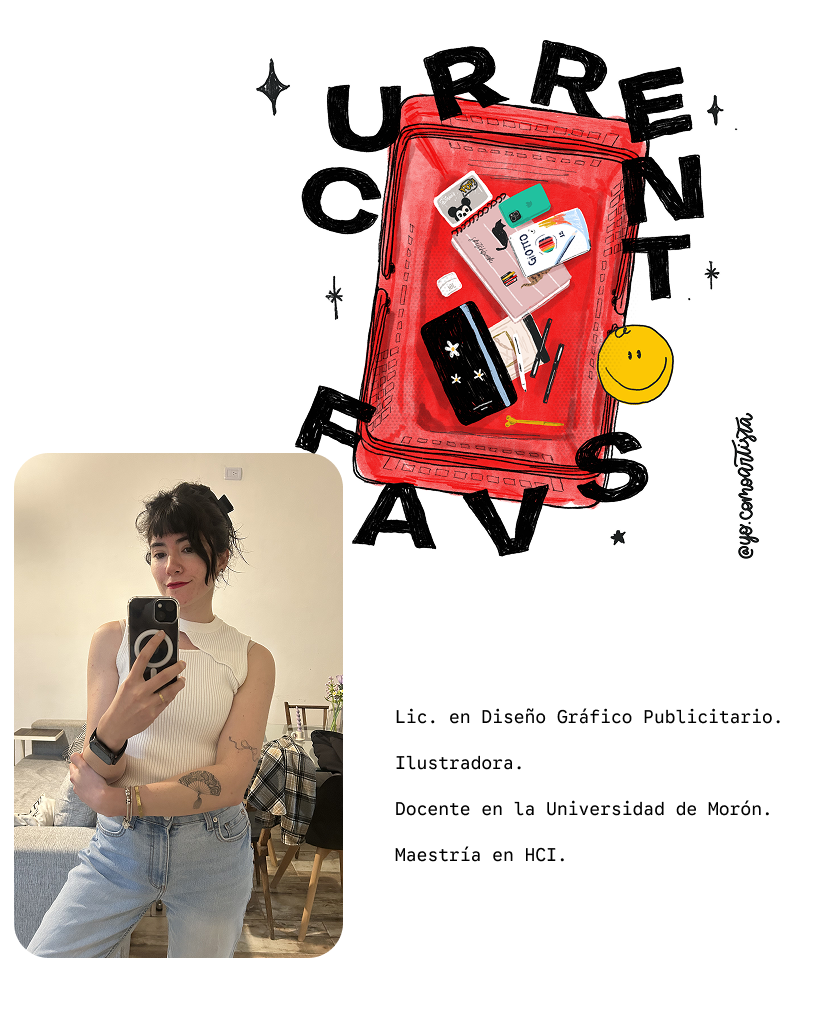
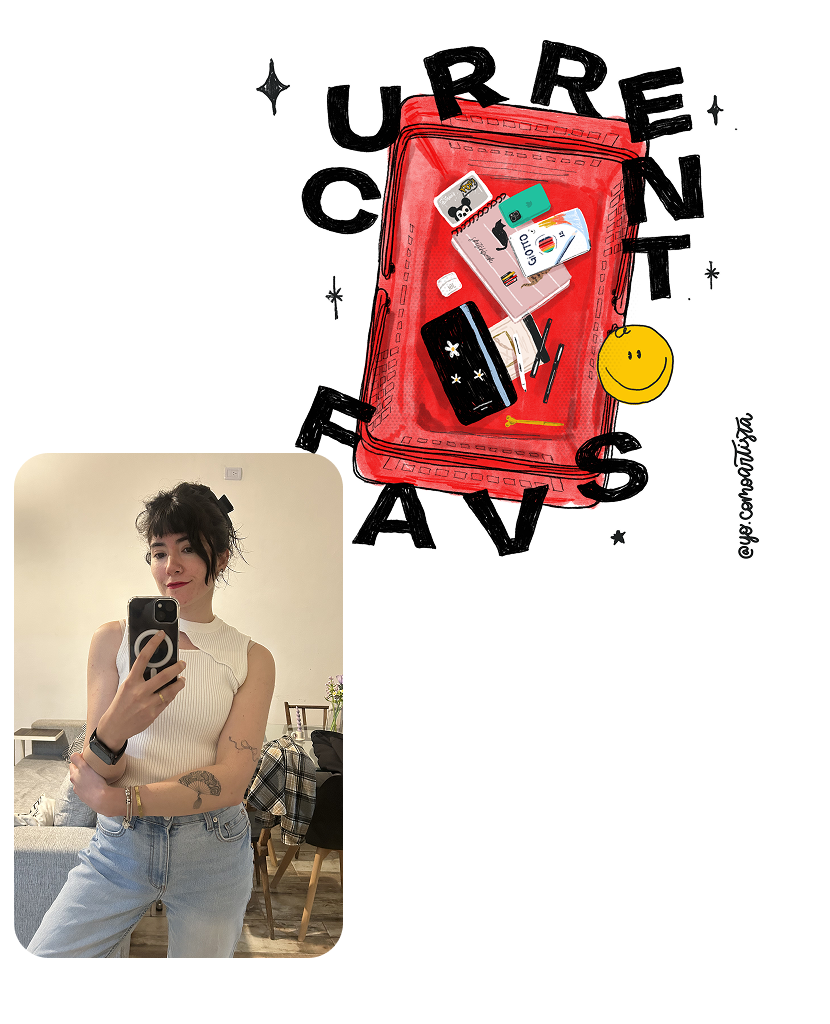
Actualización de nombre de la página le saque el * a mi nombre en el header Ajuste la imagen de sobre mi Sume una acción con boton para los datos de mis estudios

Changed region(s): [[0.4819, 0.6875, 0.9337, 0.75], [0.6325, 0.7812, 0.9036, 0.8438], [0.4819, 0.7812, 0.6024, 0.8438]]

diff --git a/index.html b/index.html
@@ -5,7 +5,7 @@
     <meta name="viewport" content="width=device-width, initial-scale=1">
     <meta name="theme-color" content="#f8f7f3">
     <meta name="description" content="Portfolio de Daiana:diseño gráfico, ilustración y diseño de producto con intención.">
-    <title>Daiana Mee — Diseño e ilustración</title>
+    <title>Daiana Alarcón — Diseñadora</title>
     <link rel="preconnect" href="https://fonts.googleapis.com">
     <link rel="preconnect" href="https://fonts.gstatic.com" crossorigin>
     <link href="https://fonts.googleapis.com/css2?family=Google+Sans+Code:wght@400;500&family=Google+Sans+Flex:opsz,wght@6..100,100..1000&family=DM+Sans:wght@400;500;600;700&display=swap" rel="stylesheet">
@@ -13,7 +13,7 @@
   </head>
   <body>
     <header class="site-header" id="inicio">
-      <a class="wordmark" href="#inicio" aria-label="Daiana Alarcón, inicio">Daiana<span>✳</span>Alarcón</a>
+      <a class="wordmark" href="#inicio" aria-label="Daiana Alarcón, inicio">Daiana Alarcón</a>
       <nav class="site-nav" aria-label="Navegación principal">
     
          <a href="#proyectos">Proyectos</a>
@@ -268,6 +268,15 @@
       <section class="about section-wrap" id="sobre-mi" aria-labelledby="about-title">
         <div class="about-art">
           <img src="sobre-mi.png" alt="Foto de Daiana y una ilustración" loading="lazy">
+          <details class="about-credentials">
+            <summary aria-label="Mostrar formación y experiencia"><span aria-hidden="true">i</span></summary>
+            <ul class="about-credentials-card">
+              <li>Lic. en Diseño Gráfico Publicitario.</li>
+              <li>Ilustradora.</li>
+              <li>Docente en la Universidad de Morón.</li>
+              <li>Maestría en HCI.</li>
+            </ul>
+          </details>
         </div>
         <div class="about-copy">
           <p class="eyebrow">Aplico varias disciplinas para obtener propuestas creativas. </p>

diff --git a/styles.css b/styles.css
@@ -346,6 +346,60 @@ a {
   object-fit: contain;
 }
 
+.about-credentials {
+  position: absolute;
+  top: 20px;
+  left: 0;
+  z-index: 2;
+}
+
+.about-credentials summary {
+  width: 42px;
+  height: 42px;
+  display: grid;
+  place-items: center;
+  border: 0;
+  border-radius: 50%;
+  background: var(--mint);
+  box-shadow: 0 10px 28px rgba(23, 23, 23, 0.12);
+  cursor: pointer;
+  font-size: 22px;
+  font-weight: 700;
+  list-style: none;
+}
+
+.about-credentials summary::-webkit-details-marker {
+  display: none;
+}
+
+.about-credentials summary:focus-visible {
+  outline: 2px solid var(--ink);
+  outline-offset: 3px;
+}
+
+.about-credentials-card {
+  position: absolute;
+  top: calc(100% + 10px);
+  left: 0;
+  width: min(230px, 58vw);
+  margin: 0;
+  padding: 14px 16px;
+  border-radius: 16px;
+  background: var(--mint);
+  box-shadow: 0 10px 28px rgba(23, 23, 23, 0.12);
+  list-style: none;
+}
+
+.about-credentials-card li {
+  padding: 6px 0;
+  font-size: 12px;
+  line-height: 1.4;
+}
+
+.about-credentials-card li + li {
+  border-top: 1px solid rgba(23, 23, 23, 0.2);
+}
+
 
 .about-copy {
   max-width: 470px;
@@ -1021,6 +1075,21 @@ a {
     width: min(100%, 440px);
     height: min(100vw, 420px);
     margin: 0 auto;
+  }
+
+  .about-credentials {
+    top: 8px;
+    left: 0;
+  }
+
+  .about-credentials-card {
+    width: min(220px, 64vw);
+    padding: 10px 12px;
+  }
+
+  .about-credentials-card li {
+    padding: 5px 0;
+    font-size: 11px;
   }
 
   .about-copy {
